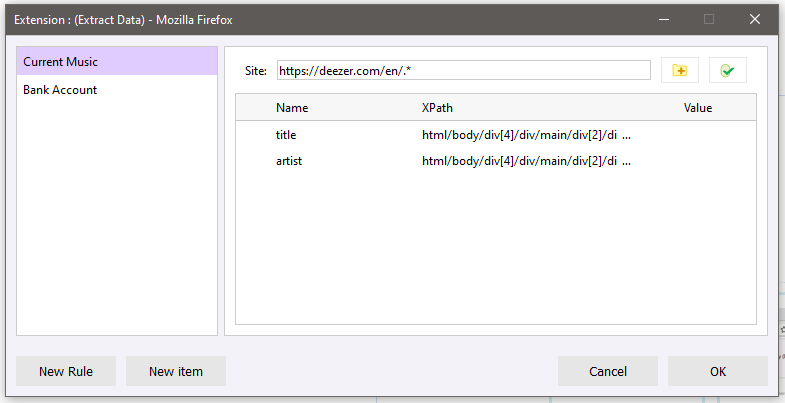
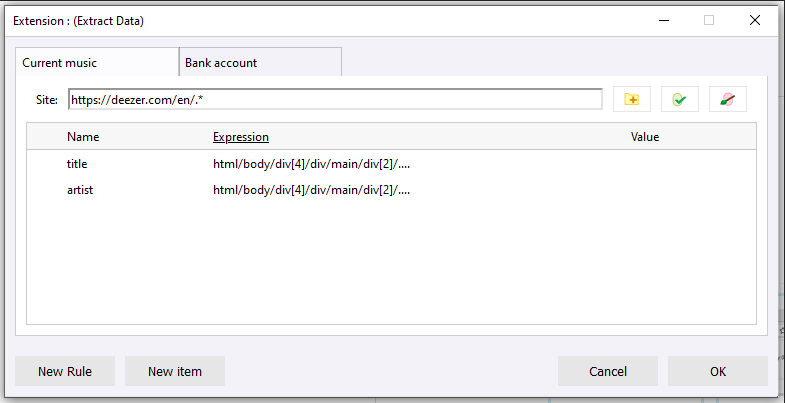
#51 Simplify layout of option editor

diff --git a/ui/options.js b/ui/options.js
@@ -57,15 +57,19 @@ common.registerEditor(document.getElementById("left"), editor => {
 
 document.getElementById("left").addEventListener("keydown", event => {
 	if (event.code == "Delete") {
-		var left = document.getElementById("left");
 		var ruleIds = optionsUi.activeRules();
 		
 		if (ruleIds.length > 0) {
 			let nextId = findNextAfterDeletion(rules, ruleIds[ruleIds.length-1]);
 			rules = rules.filter(x => !ruleIds.includes(x.id));
+
+			if (rules.length == 0) {
+				let ruleName = browser.i18n.getMessage("new_rule_name", ""+(rules.length+1));
+				rules.push({ id: common.uuidv4(), name: ruleName, sitematch: "", items: [] });
+				nextId = rules[rules.length-1].id;
+			}
 			updateRules({rules: rules});
 			clickOnRule(null, nextId);
-			left.focus();
 		}
 	}
 });
@@ -155,7 +159,6 @@ document.getElementById("table-cache").addEventListener("keydown", event => {
 			clickOnItem(nextId);
 			cache.focus();
 		}
-
 	}
 });
 
@@ -184,7 +187,10 @@ function clickOnRule(previousRuleId, ruleId) {
 	}
 	
 	Array.from(left.childNodes).forEach(x => common.removeClass(x, "active"));
-	Array.from(left.childNodes).filter(x => x.getAttribute("rule-id") == ruleId).forEach(x => common.addClass(x, "active"));
+	Array.from(left.childNodes).filter(x => x.getAttribute("rule-id") == ruleId).forEach(x => {
+		common.addClass(x, "active");
+		x.focus();	
+	});
 
 	let rule = rules.filter(x => x.id == ruleId)[0];
 	if (rule != null && rule.sitematch != undefined) {
@@ -205,7 +211,7 @@ function clickOnRule(previousRuleId, ruleId) {
 		}
 	} else {
 		var table = document.getElementById("table-editor");
-		while (table.childNodes.length > 2) {
+		while (table.childNodes.length > 1) {
 			table.removeChild(table.lastChild);
 		}
 		table.appendChild(createCacheEditor(rule.items));
@@ -216,7 +222,7 @@ function setItemResult(itemResult) {
 	var table = document.getElementById("table-cache");
 	var row = Array.from(table.childNodes).find(e => e.id == itemResult.id);
 	let icon = Array.from(row.childNodes).find(e => e.getAttribute("class").indexOf("icon") > -1);
-	let value = Array.from(Array.from(Array.from(row.childNodes).find(e => e.getAttribute("class") == "table-column-wrapper").childNodes).find(e => e.getAttribute("class") == "table-column-wrapper-2").childNodes).find(e => e.getAttribute("class") == "table-column table-column-value");
+	let value = Array.from(row.childNodes).find(e => e.getAttribute("class") == "table-column table-column-value");
 	if (icon) {
 		if (itemResult.valid) {
 			common.addClass(row, "valid");
@@ -288,21 +294,13 @@ function createCacheEntry(item) {
 	child.textContent = item.icon;
 	node.appendChild(child);
 
-	let childWrapper = document.createElement("div");
-	common.addClass(childWrapper, "table-column-wrapper");
-	node.appendChild(childWrapper);
-
 	child = document.createElement("input");
 	common.addClass(child, "table-column table-column-name");
 	child.setAttribute("item-id", item.id);
 	child.setAttribute("item-data", "name");
 	child.value = item.name;
 	child.setAttribute("readonly", "readonly");
-	childWrapper.appendChild(child);
-
-	let childWrapper2 = document.createElement("div");
-	common.addClass(childWrapper2, "table-column-wrapper-2");
-	childWrapper.appendChild(childWrapper2);
+	node.appendChild(child);
 
 	child = document.createElement("input");
 	child.setAttribute("type", "text");
@@ -311,12 +309,12 @@ function createCacheEntry(item) {
 	child.setAttribute("item-data", "expression");
 	child.value = item.expression;
 	child.setAttribute("readonly", "readonly");
-	childWrapper2.appendChild(child);
+	node.appendChild(child);
 
 	child = document.createElement("div");
 	common.addClass(child, "table-column table-column-value");
 	child.textContent = "";
-	childWrapper2.appendChild(child);
+	node.appendChild(child);
 
 	return node;
 }
@@ -469,6 +467,10 @@ document.getElementById("button-open").onclick = function (event) {
 	clickOnRule(lastActiveId, lastActiveId);
  };
  
+ document.getElementById("left").addEventListener('wheel', function (event) {
+	document.getElementById("left").scrollLeft += (event.deltaY * 30);
+ });
+
 function restoreWindow() {
 	var urlParams = new URLSearchParams(window.location.search);
 	if (urlParams.has('initialRule')) {

diff --git a/ui/popup.css b/ui/popup.css
@@ -10,6 +10,7 @@
 
 :root {
   --row-hover: rgba(100, 0, 255, 0.02);
+  --row-left-active: rgba(255, 255, 255, 0.8);
   --row-active: rgba(100, 0, 255, 0.2);
   --row-active-color: rgba(0, 0, 0);
   --popup-width: 300px;
@@ -25,6 +26,7 @@
 
 @media (prefers-color-scheme: dark) {
   :root {
+    --row-left-active: rgba(100, 0, 255, 0.5);
     --row-hover: rgba(100, 0, 255, 0.2);
     --row-active: rgba(100, 0, 255, 0.5);
     --row-active-color: rgba(230, 230, 230);
@@ -224,7 +226,7 @@ textarea {
 }
 @media(min-width: 750px) {
   .dialog-zone {
-    flex-direction: row;    -webkit-flex-direction: row;
+    flex-direction: column;    -webkit-flex-direction: column;
   }
 }
 .dialog-zone {
@@ -232,13 +234,11 @@ textarea {
   height: 100%;
   margin: 10px;
   display: flex;          display: -webkit-flex;
-  flex-wrap: wrap;     -webkit-flex-wrap: wrap;
   justify-content: space-around;
   align-items: stretch;
 }
 
 .resizeable-hpane {
-  border: 1px solid rgba(0, 0, 0, 0.2);
 }
 
 .button-bar {
@@ -300,50 +300,70 @@ textarea {
 .right-pane .block input {
   /*min-width: 300px;*/
   flex-grow: 1;
-  border: 1px solid rgba(0, 0, 0, 0.2);
 }
 
 .right-pane {
   padding: 10px;
   /*width: calc(1200px - 200px - 40px);*/
   background-color: var(--inner-box-color);
-  flex-grow: 6;
+  border-left: 1px solid rgba(0, 0, 0, 0.2);
+  border-right: 1px solid rgba(0, 0, 0, 0.2);
+  border-bottom: 1px solid rgba(0, 0, 0, 0.2);
+  flex-grow: 1;
 
   display: flex;          display: -webkit-flex;
   flex-direction: column;    -webkit-flex-direction: column;
   flex-wrap: wrap;     -webkit-flex-wrap: wrap;
 }
 
+.left-pane::-webkit-scrollbar {
+  display: none;  /* Chrome Safari */
+}
+
 .left-pane {
-  margin-right: 6px;
+  scrollbar-width: none;
+  -ms-overflow-style: none;
+
+  flex-wrap: no-wrap;
+  display: flex;
   flex-grow: 0;
-  background-color: var(--inner-box-color);
+  flex-direction: row;
+  overflow-x:auto;
+  background-color: var(--dialog-background);
 }
 @media(min-width: 750px) {
   .left-pane {
-    width: 200px;
   }
 }
 @media(max-width: 750px) {
   .left-pane {
-    height: 140px;
-    margin-right: 0px;
-    margin-bottom: 6px;
     overflow-y: scroll;
-  }
-  .right-pane {
-    flex-grow: 6;
   }
 }
 .left-pane input {
-  border: 0px;
   width: -moz-available;
   width: -webkit-fill-available;  
 }
 
+.left-pane-item:first-child {
+  border-left: 1px solid rgba(0, 0, 0, 0.2);
+}
+.left-pane-item:last-child {
+  border-right: 1px solid rgba(0, 0, 0, 0.2);
+}
 .left-pane-item {
+  border-left: 1px solid var(--inner-item);
+  border-right: 1px solid rgba(0, 0, 0, 0.2);
+  border-top: 1px solid rgba(0, 0, 0, 0.2);
+  border-bottom: 0px;
+  flex-wrap: wrap;
+  overflow-x: auto;
+  min-width: 100px;
+  max-width: 150px;
+  flex-basis: 150px;
+  flex-shrink: 1;
   cursor: default;
-  display: block;
+  flex-grow: 0;
   padding: 6px;
   background-color: var(--inner-item);
 }
@@ -362,10 +382,11 @@ input[readonly]:hover {
 }
 
 .left-pane-item.active {
-  background-color: var(--row-active);
+  background-color: var(--row-left-active);
+  flex-shrink: 0;
 }
 .left-pane-item.active:hover {
-  background-color: var(--row-active);
+  background-color: var(--row-left-active);
 }
 .left-pane-item:hover {
   background-color: var(--row-hover);
@@ -377,6 +398,12 @@ input[readonly]:hover {
   background-color: var(--popup-background);
   border: 1px solid rgba(0, 0, 0, 0.2);
   width: var(--popup-width);
+}
+
+.cache-section {
+  display: flex;          display: -webkit-flex;
+  flex-direction: row;    -webkit-flex-direction: row;
+  flex-grow: 1;
 }
 
 .table-cache {

diff --git a/ui/options.html b/ui/options.html
@@ -28,24 +28,21 @@
           <button id="button-advanced">&nbsp;</button>
         </div>
       </div>
-
-    <div id="table-cache" class="table-cache" tabindex="1" ><div class="table-header">
-      <div class="table-column table-column-icon"></div>
-        <div class="table-column-wrapper">
-          <div id="table-column-name" class="table-column table-column-name"></div>
-          <div class="table-column-wrapper-2">
+      <div id="cache-section" class="cache-section" >
+        <div id="table-cache" class="table-cache" tabindex="1" ><div class="table-header">
+            <div class="table-column table-column-icon"></div>
+            <div id="table-column-name" class="table-column table-column-name"></div>
             <div id="table-column-expression" class="table-column table-column-expression">
               <a id="table-column-expression-text" target="_blank" href='https://github.com/pdulvp/extract-data#expression'></a>
             </div>
             <div id="table-column-value" class="table-column table-column-value"></div>
-          </div>
-        </div>
-      </div>
+          </div></div>
+        <div id="table-editor" class="table-cache invisible" tabindex="3"><div class="table-header"><div class="table-column table-column-editor">Advanced editor</div></div></div>
+    <!--div id="table-values" class="table-values" tabindex="2" >
+    
+    </div-->
     </div>
-
-    <div id="table-editor" class="table-cache invisible" tabindex="2">
-      <div class="table-header"><div class="table-column table-column-editor">Advanced editor</div></div>
-    </div>
+  </div>
     
   </div>
 
